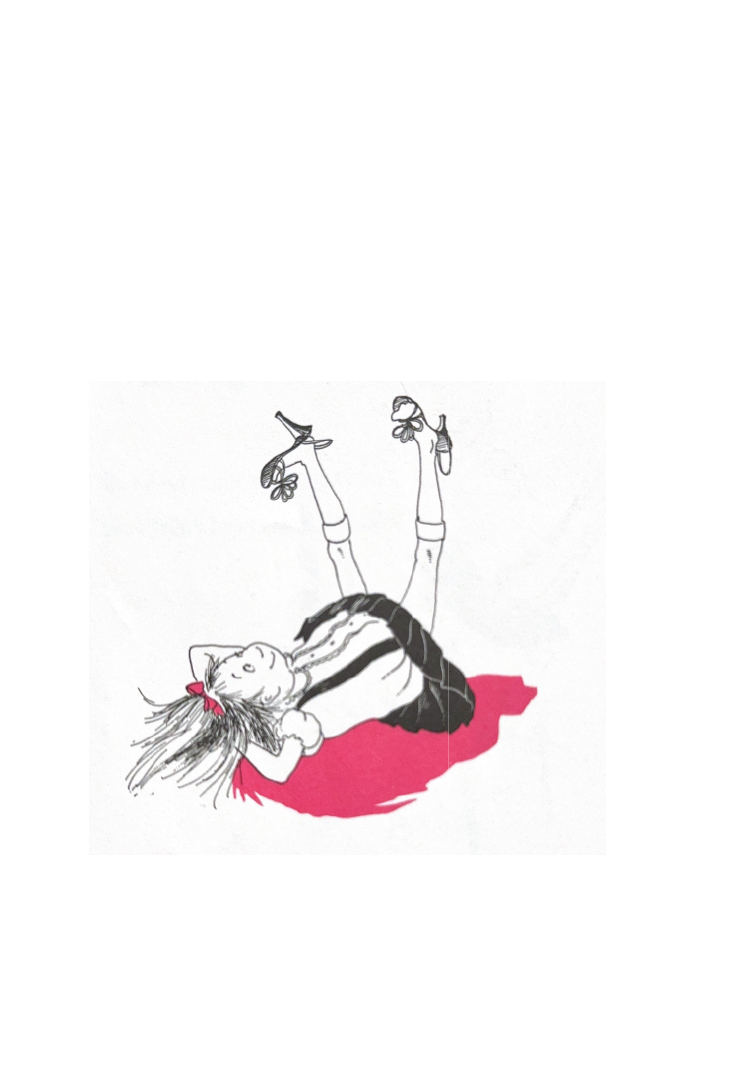
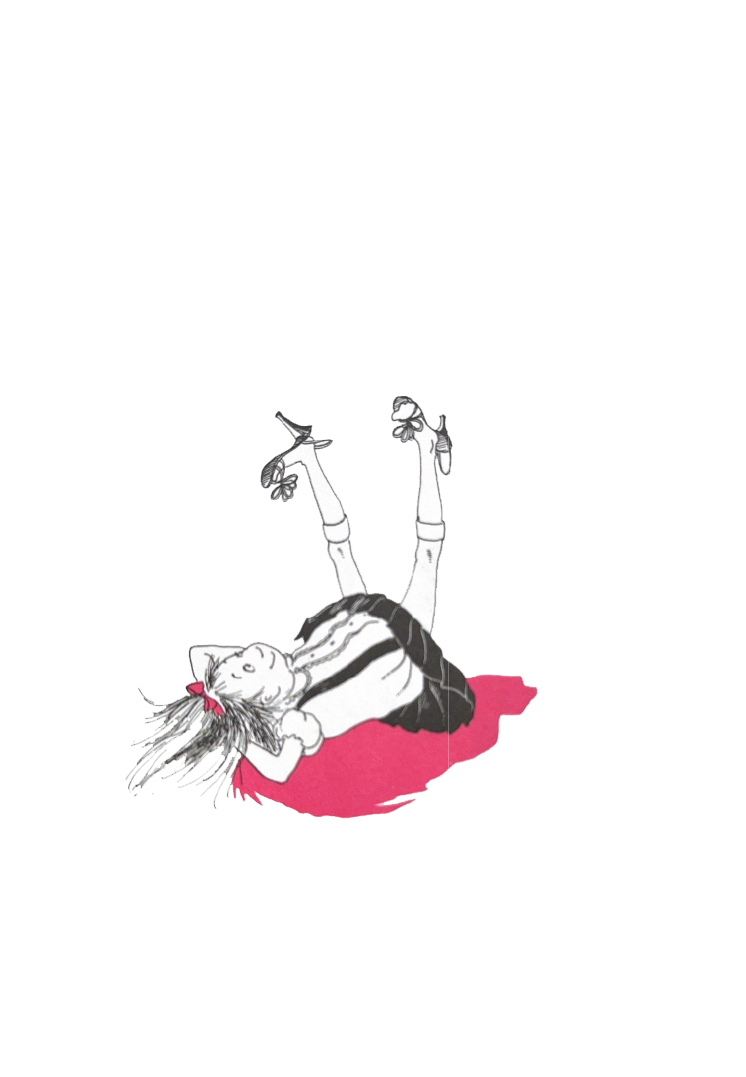
final update

diff --git a/css/style.css b/css/style.css
@@ -1,24 +1,75 @@
 @font-face {
   font-family: bodoflo;
-  src: url(bodoflo.ttf);
+  src: url('bodoflo.ttf');
 }
 
 @font-face {
   font-family: bambank;
-  src: url(bambank.ttf);
+  src: url('bambank.ttf');
 }
-
 
 html, body {
   margin: 0;
   padding: 0;
+}
  
 canvas {
   display: block;
+  margin:auto;
+  margin-top:10%;
 }
-
 
 #homepage {
   background-image: url("../img/eloisebackground.png");
+  background-size: cover;
   background-color: #FFD4DF;
+}
+
+#homepage-text {
+  text-align: center;
+  margin-top: 40%;
+  font-family: bodoflo;
+  font-size: 20pt;
+}
+
+#homepage-text a {
+  color:black;
+  text-decoration: none;
+}
+
+#eloise1-page {
+  background-color: #FFD4DF;
+}
+
+img {
+  position:absolute;
+  width:20%;
+}
+
+#cornereloise {
+width:30%;
+top: 0px;
+left: 70%;
+}
+
+#follow-me {
+top:70%;
+}
+
+#follow-me-top-right {
+  left: 80%;
+  top:0px;
+}
+
+#eloisebleh {
+  bottom:30%;
+  left:20%;
+  width: 60%;
+}
+
+#eloiselay{
+  bottom:20%;
+  left:30%;
+  width: 40%;
+  padding-left: 40px;
 }

diff --git a/js/eloise3.js b/js/eloise3.js
@@ -1,13 +1,17 @@
 var font;
+var isFirstClick = true;
 
 function preload(){
-  font=loadFont('../img/bodoflo.ttf')
+  font=loadFont('img/bodoflo.ttf')
 }
 
 function setup() {
   createCanvas(600, 600);
    background('white');
   textSize(30)
+  textFont(font)
+  textAlign(CENTER);
+  text('click here',width/2,height/2);
 }
 
 function draw() {
@@ -15,7 +19,10 @@ function draw() {
 }
 
 function mouseClicked(){
-  textFont(font)
+  if(isFirstClick){
+    background('white');
+    isFirstClick = false;
+  }
   text('Ooooo I absolutely love The Plaza',mouseX,mouseY);
 }
 

diff --git a/eloise2.html b/eloise2.html
@@ -9,15 +9,17 @@
   </head>
   <body>
     <header>
-      <a href="eloise3.html">
-        <img src="img/eloisebleh.png" width="900">
-      </a>
+        <img id="eloisebleh" src="img/eloisebleh.png" width="900">
     </header>
     <main>
       <a href="eloise1.html">
-        <img src="img/follow_me.png">
+        <img id="follow-me" src="img/follow_me.png">
       </a>
     </main>
     <script src="js/eloise2.js"></script>
+
+    <a href="eloise3.html">
+      <img id="follow-me-top-right" src="img/follow_me.png">
+    </a>
   </body>
 </html>

diff --git a/eloise1.html b/eloise1.html
@@ -7,15 +7,15 @@
     <meta charset="utf-8" />
 
   </head>
-  <body>
+  <body id="eloise1-page">
     <header>
       <a href="eloise2.html">
-        <img src="img/cornereloise.png" width="400">
+        <img id="cornereloise" src="img/cornereloise.png" width="400">
       </a>
     </header>
     <main>
       <a href="index.html">
-        <img src="img/follow_me.png">
+        <img id="follow-me" src="img/follow_me.png">
       </a>
     </main>
     <script src="js/sketch.js"></script>

diff --git a/eloise3.html b/eloise3.html
@@ -9,14 +9,19 @@
   </head>
   <body>
     <header>
-      <p>Click Me!</p>
-      <a href="eloise2.html">
-      <img src="img/eloiselay.png">
-      </a>
+      <!-- <p>Click Me!</p> -->
+      
+      <img src="img/eloiselay.png" id="eloiselay">
+      
     </header>
     <main>
       
     </main>
     <script src="js/eloise3.js"></script>
+
+    <a href="index.html">
+      <img id="follow-me-top-right" src="img/follow_me.png">
+    </a>
+
   </body>
 </html>

diff --git a/index.html b/index.html
@@ -12,11 +12,11 @@
         <meta name="viewport" content="width=device-width, initial-scale=1">
         <link rel="stylesheet" href="css/style.css">
     </head>
-    <body>
+    <body id="homepage">
         <header>
 
         </header>
-        <main id="homepage">
+        <main id="homepage-text">
             <a href="eloise1.html">
             <h1>At The Plaza</h1>
             </a>

diff --git a/js/sketch.js b/js/sketch.js
@@ -7,8 +7,8 @@ var sixY;
 var eloiseY;
 
 function preload() {
-  font= loadFont('../img/bodoflo.ttf');
-  font2 = loadFont('../img/bambank.ttf');
+  font= loadFont('img/bodoflo.ttf');
+  font2 = loadFont('img/bambank.ttf');
   
 }
 

diff --git a/js/eloise2.js b/js/eloise2.js
@@ -6,7 +6,7 @@ var currentTextTopLine = "";
 var currentTextBottomLine = "";
 
 function preload(){
-  font= loadFont('../img/bodoflo.ttf');
+  font= loadFont('img/bodoflo.ttf');
 }
 
 
